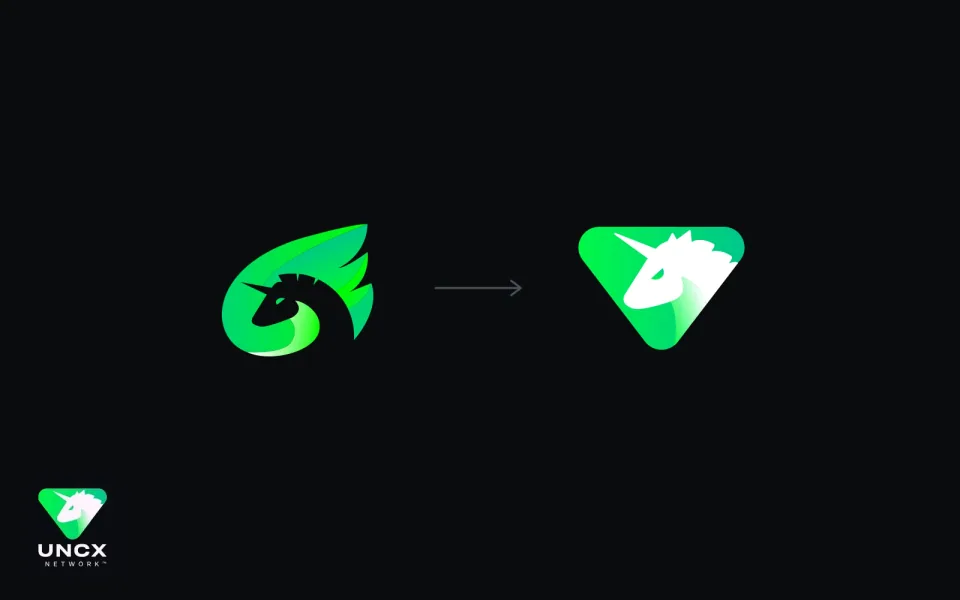
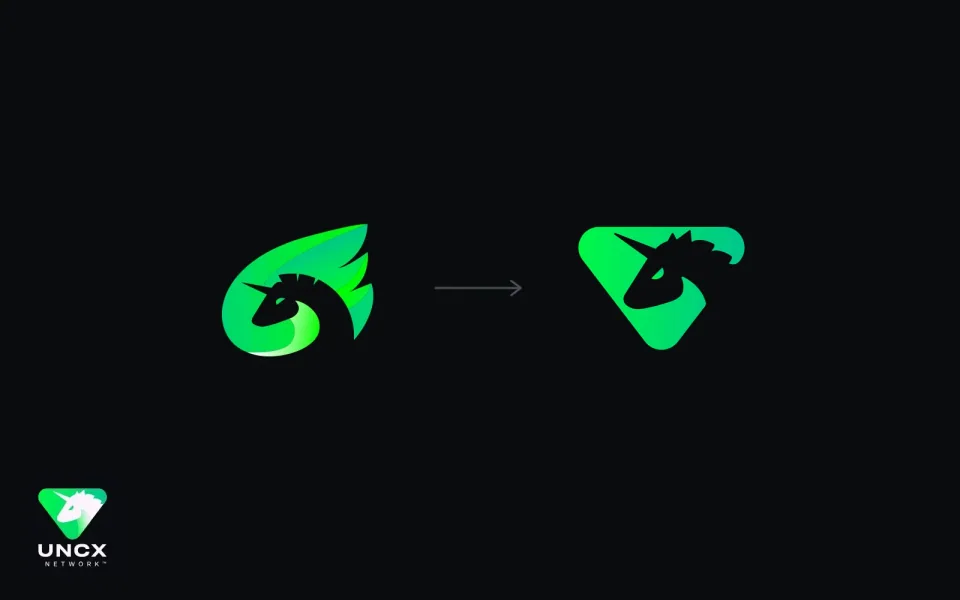
🍱 content(rebrand): show the UNCX mark as a cut-out, like the Unicrypt mark
The card set the old mark's cut-out head against the new mark's white
filled head, which made the new one read heavier. The new mark is now
rendered from the logotype vector without its light base layer, so both
heads are cut-outs.

Changed region(s): [[0.625, 0.39, 0.7812, 0.57]]

diff --git a/ROADMAP.md b/ROADMAP.md
@@ -8,7 +8,7 @@
 - [x] Gallery films keep their own shape, read from the poster; square films
   match a 16:9 neighbour's height instead of sitting letterboxed.
 - [x] Rebrand: the old Unicrypt banner is gone; the card, and the project
-  cover, show the Unicrypt mark becoming the UNCX mark. Brand colours, the
+  cover, show the Unicrypt mark becoming the UNCX mark, both as cut-outs. Brand colours, the
   YouTube cover and the launch banner are added from the brand archive.
 - [x] Academy: the card carries the UNCX corner mark; five images pair each
   Figma design with its live page, and the story crops are recaptured from
